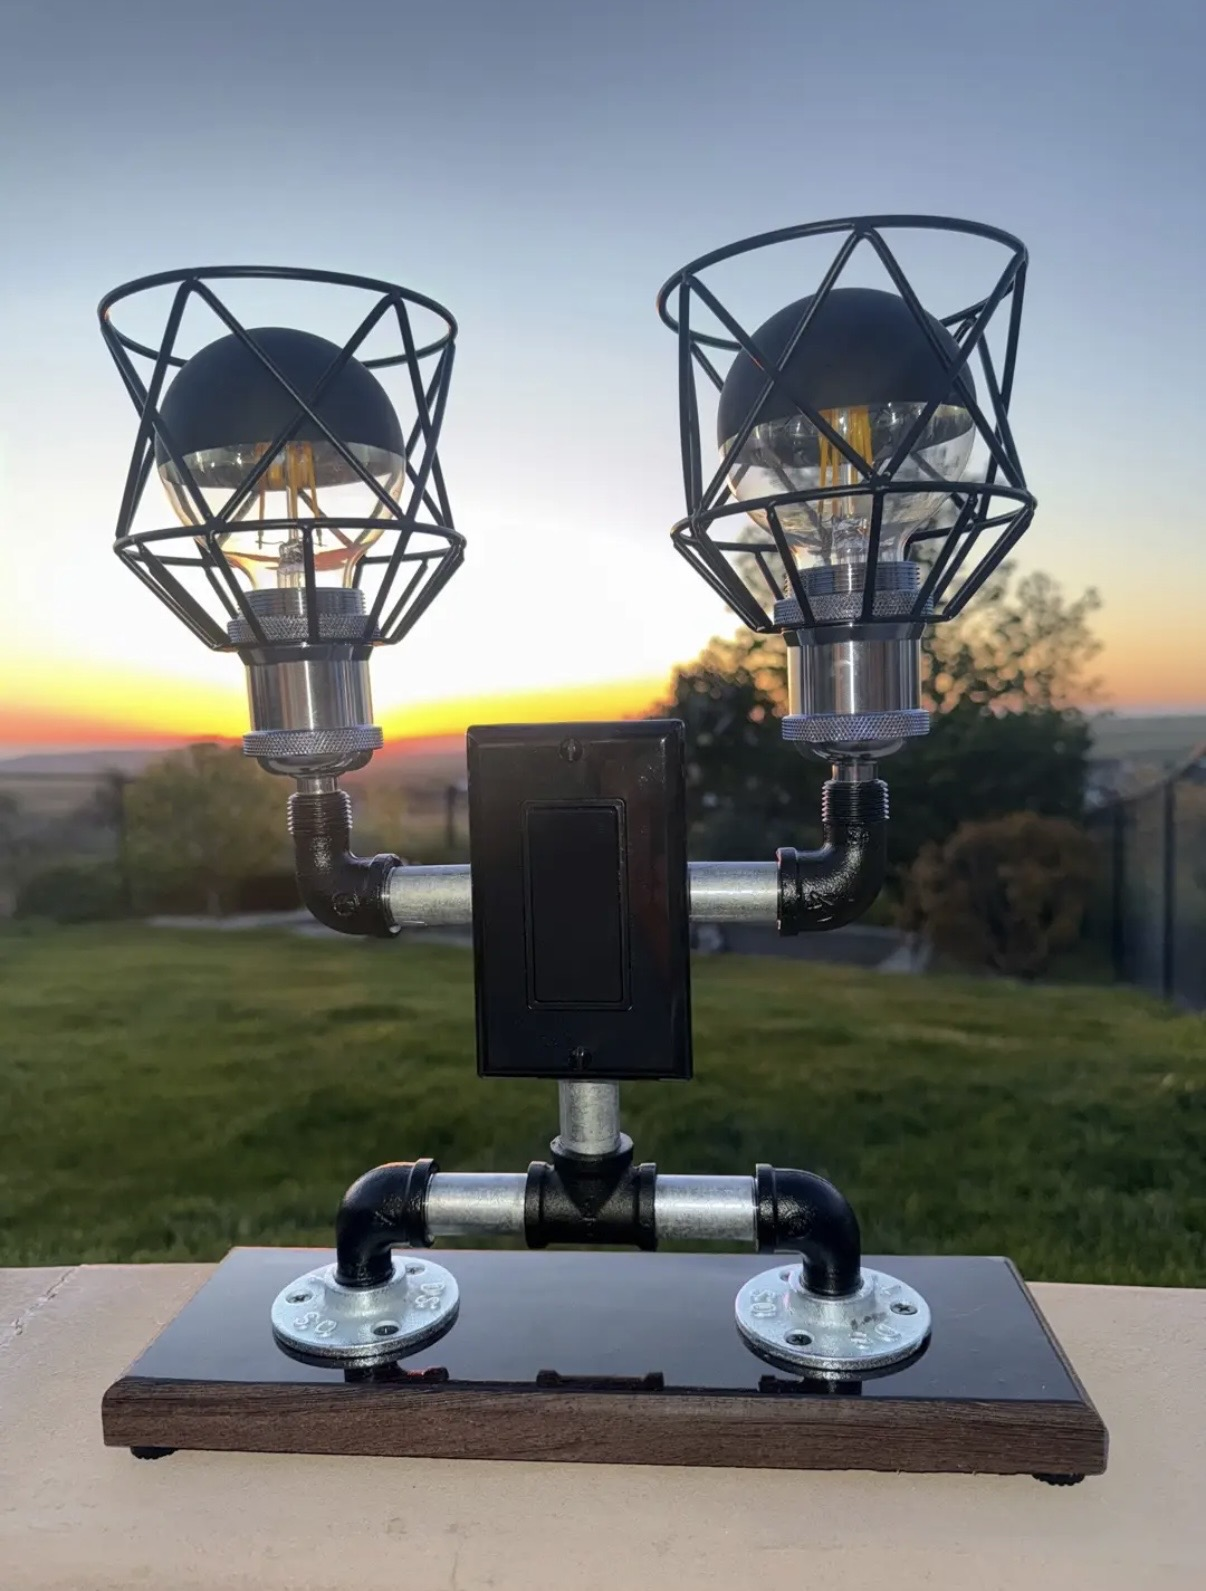
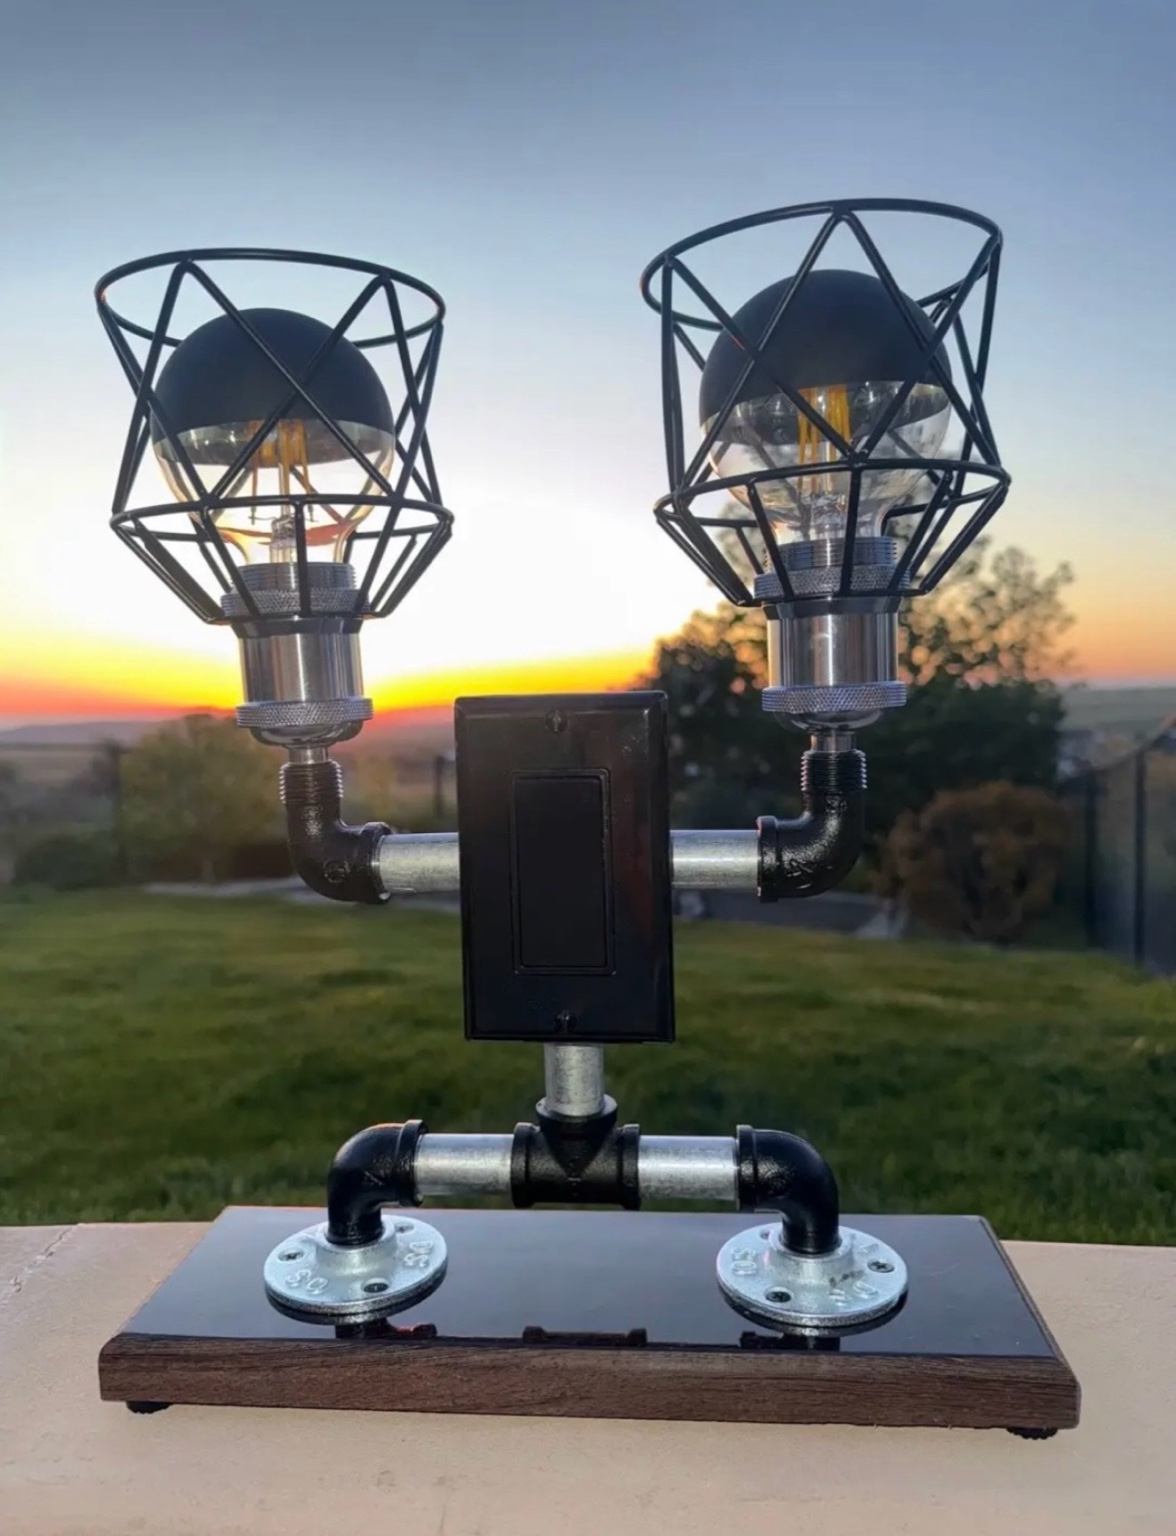
Add files via upload

diff --git a/index.html b/index.html
@@ -1,0 +1,204 @@
+<!-- baylors.html -->
+<!DOCTYPE html>
+
+<html lang="en">
+<head>
+<meta content="MQBYhmDHbTiFxvqggYpIqmD1kKzhtsRpkjdSBH1J-sA" name="google-site-verification"/>
+<meta charset="utf-8"/>
+<meta content="width=device-width, initial-scale=1.0" name="viewport"/>
+<title>Baylors Custom Creations — Division of B4 Lighting LLC</title>
+<style>
+  * { margin: 0; padding: 0; box-sizing: border-box; }
+  html { scroll-behavior: smooth; }
+  body { background: #0d0a07; color: #dccb98; padding: 0; }
+
+  .card-wrapper { width: 100%; max-width: 600px; margin: 0 auto; position: relative; }
+  .card-image { width: 100%; display: block; }
+  .hotspots { position: absolute; inset: 0; }
+  a.hotspot { position: absolute; display: block; border-radius: 6px; cursor: pointer; transition: background 0.2s; }
+  a.hotspot:hover { background: rgba(184,134,11,0.12); outline: 1px solid rgba(184,134,11,0.3); }
+  .hs-phone { top: 54%; left: 14%; width: 30%; height: 8%; }
+  .hs-email { top: 63%; left: 14%; width: 32%; height: 8%; }
+  .hs-address { top: 72%; left: 14%; width: 32%; height: 11%; }
+  .hs-website { top: 84%; left: 14%; width: 28%; height: 8%; }
+  .hs-facebook { top: 83%; left: 65%; width: 12%; height: 12%; }
+  .hs-tiktok { top: 83%; left: 80%; width: 12%; height: 12%; }
+
+  .tiktok-section { padding: 28px 16px; text-align: center; }
+  .tiktok-link { display: inline-flex; align-items: center; gap: 10px; font-family: Georgia, serif; font-size: 1.1rem; color: #c9a227; text-decoration: none; border: 1px solid #6b4f1a; border-radius: 8px; padding: 14px 24px; background: rgba(184,134,11,0.07); transition: background 0.2s, border-color 0.2s; }
+  .tiktok-link:hover { background: rgba(184,134,11,0.15); border-color: #c9a227; }
+
+  .bio-section { padding: 28px 24px 24px; max-width: 600px; margin: 0 auto; }
+  .bio-section p { font-family: Georgia, serif; font-size: 1rem; line-height: 1.75; color: #c9a227; text-align: center; }
+
+  .photo-stack { display: flex; flex-direction: column; max-width: 600px; margin: 0 auto; gap: 34px; padding: 22px 14px 42px; }
+  .photo-item { position: relative; display: flex; flex-direction: column; background: linear-gradient(180deg, rgba(40,30,15,0.94), rgba(13,10,7,0.96)); border: 1px solid rgba(201,162,39,0.35); border-radius: 14px; overflow: hidden; box-shadow: 0 14px 34px rgba(0,0,0,0.38); }
+  .photo-label { font-family: Georgia, serif; font-size: 1.35rem; color: #f0cf63; text-align: center; padding: 20px 18px 10px; font-weight: bold; }
+  .price { align-self: center; margin: 0 auto 16px; padding: 7px 16px; border: 1px solid rgba(201,162,39,0.45); border-radius: 999px; color: #f0cf63; font-family: Georgia, serif; font-weight: bold; background: rgba(184,134,11,0.08); }
+  .photo-stack img { width: 100%; display: block; }
+  .description { font-family: Georgia, serif; color: #dccb98; line-height: 1.65; padding: 18px 20px 12px; text-align: center; font-size: 1rem; }
+  .paypal-wrap { text-align: center; padding: 12px 16px 26px; min-height: 72px; }
+  .sold-badge { position: absolute; top: 18px; right: -42px; transform: rotate(35deg); background: #c9a227; color: #0d0a07; font-family: Georgia, serif; font-weight: bold; letter-spacing: 1px; padding: 8px 48px; box-shadow: 0 6px 14px rgba(0,0,0,0.35); z-index: 2; }
+
+  .contact-section { max-width: 600px; margin: 0 auto; padding: 34px 20px 44px; text-align: center; border-top: 1px solid #2a1f0e; }
+  .contact-section h2 { color: #f0cf63; font-family: Georgia, serif; margin-bottom: 14px; }
+  .contact-section p, .contact-section a { color: #c9a227; font-family: Georgia, serif; line-height: 1.8; }
+  .contact-section a { text-decoration: none; }
+
+  .back-top { position: fixed; right: 18px; bottom: 18px; width: 44px; height: 44px; border-radius: 50%; display: grid; place-items: center; background: rgba(201,162,39,0.95); color: #0d0a07; text-decoration: none; font-weight: bold; box-shadow: 0 8px 22px rgba(0,0,0,0.35); z-index: 5; }
+
+  @media (max-width: 520px) {
+    .photo-stack { padding-left: 10px; padding-right: 10px; }
+    .photo-label { font-size: 1.15rem; }
+    .description { font-size: 0.96rem; }
+  }
+
+  .paypal-button { display: inline-block; font-family: Georgia, serif; font-weight: bold; font-size: 1rem; color: #0d0a07; text-decoration: none; background: #f0cf63; border: 1px solid #c9a227; border-radius: 999px; padding: 12px 28px; box-shadow: 0 6px 16px rgba(0,0,0,0.28); transition: transform 0.15s ease, background 0.15s ease; }
+  .paypal-button:hover { background: #ffd86b; transform: translateY(-1px); }
+</style>
+</head>
+<body id="top">
+<div class="card-wrapper">
+<img alt="Baylors Custom Creations — Division of B4 Lighting LLC" class="card-image" src="FullSizeRender.jpeg"/>
+<div class="hotspots">
+<a class="hotspot hs-phone" href="tel:+15092052006" title="Call (509) 205-2006"></a>
+<a class="hotspot hs-email" href="mailto:b4lighting@outlook.com" title="Email b4lighting@outlook.com"></a>
+<a class="hotspot hs-address" href="https://maps.google.com/?q=34013+S+Cantera+St,+Kennewick,+WA+99338" rel="noopener" target="_blank" title="Get directions"></a>
+<a class="hotspot hs-website" href="https://B4Lighting.com" rel="noopener" target="_blank" title="Visit B4Lighting.com"></a>
+<a class="hotspot hs-facebook" href="https://www.facebook.com/profile.php?id=61586170517033" rel="noopener" target="_blank" title="Facebook"></a>
+<a class="hotspot hs-tiktok" href="https://www.tiktok.com/@johnbaylor953" rel="noopener" target="_blank" title="TikTok"></a>
+</div>
+</div>
+<div class="tiktok-section">
+<a class="tiktok-link" href="https://www.tiktok.com/@johnbaylor953" rel="noopener" target="_blank">
+<svg fill="#c9a227" height="24" viewbox="0 0 24 24" width="24" xmlns="http://www.w3.org/2000/svg"><path d="M19.59 6.69a4.83 4.83 0 0 1-3.77-4.25V2h-3.45v13.67a2.89 2.89 0 0 1-2.88 2.5 2.89 2.89 0 0 1-2.89-2.89 2.89 2.89 0 0 1 2.89-2.89c.28 0 .54.04.79.1V9.01a6.31 6.31 0 0 0-.79-.05 6.34 6.34 0 0 0-6.34 6.34 6.34 6.34 0 0 0 6.34 6.34 6.34 6.34 0 0 0 6.33-6.34V8.69a8.16 8.16 0 0 0 4.77 1.52V6.75a4.85 4.85 0 0 1-1-.06z"></path></svg>
+
+    Follow us on TikTok to see our lights!
+
+  </a>
+</div>
+<div class="bio-section">
+<p>For many years, I worked in the automotive industry, developing hands-on skills in repair, fabrication, and creative problem-solving. In 2025, I decided to turn my passion for building into something more personal by starting B4 Lighting. Today, I create one-of-a-kind custom lamps using a combination of vintage, reclaimed, and modern parts, giving each piece its own unique character and style. When I'm not in the workshop, I enjoy spending time with my wife, our dog Buddy—who's usually right by my side while I work—our kids Molly and Justin, and our newest addition to the family, our grandbaby Autumn.</p>
+</div>
+<div class="photo-stack">
+<div class="photo-item">
+<div class="photo-label">Around the World</div>
+<div class="price">$60</div>
+<img alt="Around the World" src="IMG_9386.jpeg"/>
+<p class="description">Around the World is handcrafted from a repurposed candle holder found at a second-hand store, giving the piece its globe-inspired character and vintage charm. It sits on a pine wood slab base with epoxy resin applied to the top, adding depth and protection while highlighting the natural wood grain. The lamp uses an E26 socket with a warm LED Edison bulb and a brown fabric cord with a black inline on/off switch. Every B4 Lighting lamp is individually handcrafted, making each one a unique piece of functional art.</p>
+<div class="paypal-wrap"><a class="paypal-button" href="https://www.paypal.com/ncp/payment/58Q8CQGUFL8DN" rel="noopener" target="_blank">Buy Now with PayPal</a></div>
+</div>
+<div class="photo-item">
+<div class="photo-label">Midnight Sentinels</div>
+<div class="price">$150</div>
+<img alt="Midnight Sentinels" src="IMG_9387.jpeg"/>
+<p class="description">Midnight Sentinels is a matching pair of handcrafted lamps made from 1/2” industrial pipe and fittings. Each lamp uses an E26 socket with a black-tipped 5000K bulb, creating a bold, modern glow against the dark industrial design. The arms move to create a unique look, allowing the pair to be posed and displayed in different ways. Each lamp includes a standard on/off paddle rocker switch with a matching cover plate. The bases are pine with black-tinted epoxy applied over the top, and small rubber feet are installed on the bottom to protect furniture and keep each piece stable. Every B4 Lighting lamp is individually handcrafted, making each one a unique piece of functional art.</p>
+<div class="paypal-wrap"><a class="paypal-button" href="https://www.paypal.com/ncp/payment/NS78LD383TABN" rel="noopener" target="_blank">Buy Now with PayPal</a></div>
+</div>
+<div class="photo-item">
+<div class="photo-label">Cherry Ember</div>
+<div class="price">$150</div>
+<img alt="Cherry Ember" src="IMG_9388.jpeg"/>
+<p class="description">Cherry Ember is a handcrafted pair of lamps made using 1/2” black painted industrial pipe with dark chrome E26 hanging sockets and warm white 2200K LED bulbs. The twisted black fabric cords hang naturally from the pipe design, giving each lamp a clean industrial look with a warm, inviting glow. The pair sits on pine wood bases finished with cherry-tinted epoxy applied to the top, creating a rich contrast between the wood, pipe, and cord. Rubber feet on the bottom help protect furniture and keep the lamps stable. Every B4 Lighting lamp is individually handcrafted, making each one a unique piece of functional art.</p>
+<div class="paypal-wrap"><a class="paypal-button" href="https://www.paypal.com/ncp/payment/8B727TWM37CCU" rel="noopener" target="_blank">Buy Now with PayPal</a></div>
+</div>
+<div class="photo-item">
+<div class="photo-label">The Lineman</div>
+<div class="price">$200</div>
+<img alt="The Lineman" src="IMG_9389.jpeg"/>
+<p class="description">The Lineman is handcrafted by incorporating a vintage copper isolator with 1/2” industrial pipe, creating a piece that pays tribute to old electrical utility hardware and industrial craftsmanship. It uses a standard E26 socket with a 7 watt 2700K soft white gold-dipped bulb, surrounded by a glass bowl for a warm, finished look. The base is oak with epoxy applied to the top, highlighting the natural wood grain while protecting the surface. A traditional dual 3-prong black outlet with a matching matte finish cover adds everyday function to the piece. The back of the outlet box features a rotating knob to turn the light on and off. It is finished with a black grounded 3-prong cord and rubber feet on the bottom. Every B4 Lighting lamp is individually handcrafted, making each one a unique piece of functional art.</p>
+<div class="paypal-wrap"><a class="paypal-button" href="https://www.paypal.com/ncp/payment/7N36L8C6R3GAQ" rel="noopener" target="_blank">Buy Now with PayPal</a></div>
+</div>
+<div class="photo-item">
+<div class="photo-label">The Hanger</div>
+<div class="price">$95</div>
+<img alt="The Hanger" src="IMG_9390.jpeg"/>
+<p class="description">The Hanger is handcrafted using 1/2” black painted industrial pipe and fittings, creating a clean, minimalist design with a suspended hanging socket. It features a black E26 socket paired with a warm white 2700K smoky round Edison-style LED bulb for a soft, inviting glow. The twisted black fabric cord hangs naturally from the top of the frame, giving the lamp its distinctive appearance. The base is made from solid oak with stain applied to enhance the natural grain. A black inline on/off switch and black fabric cord complete the design, while rubber feet on the bottom help protect furniture and keep the lamp stable. Every B4 Lighting lamp is individually handcrafted, making each one a unique piece of functional art.</p>
+<div class="paypal-wrap"><a class="paypal-button" href="https://www.paypal.com/ncp/payment/E3F32RWLUJ4Q8" rel="noopener" target="_blank">Buy Now with PayPal</a></div>
+</div>
+<div class="photo-item">
+<div class="photo-label">The Lockout</div>
+<div class="price">$140</div>
+<img alt="The Lockout" src="IMG_9391.jpeg"/>
+<p class="description">The Lockout is built around a repurposed front 4x4 hub from a Ford one-ton truck, giving the lamp a strong automotive identity and a mechanical centerpiece that can rotate when spun. The lamp is mounted on a repurposed floor lamp base and uses a 7 watt warm LED bulb for a soft glow. A white cord with an inline rocker switch keeps the design simple and functional. The bottom is finished with one piece of felt to help protect surfaces. Every B4 Lighting lamp is individually handcrafted, making each one a unique piece of functional art.</p>
+<div class="paypal-wrap"><a class="paypal-button" href="https://www.paypal.com/ncp/payment/G5YXBN7WNK3ZA" rel="noopener" target="_blank">Buy Now with PayPal</a></div>
+</div>
+<div class="photo-item">
+<div class="photo-label">The Caretaker</div>
+<div class="price">$175</div>
+<img alt="The Caretaker" src="IMG_9392.jpeg"/>
+<p class="description">The Caretaker is handcrafted from 1/2” industrial pipe finished in a durable silver coating, giving it a clean industrial appearance. Its adjustable pipe arms can be repositioned to create different poses, making each display uniquely its own. A white rocker switch and grounded 3-prong outlet with a matching faceplate form the centerpiece of the design, blending everyday function with artistic creativity. Topping the lamp is a clear glass globe that surrounds a warm amber 2200K LED bulb, producing a soft, inviting glow. The lamp is mounted on a stained solid pine base that highlights the natural wood grain while providing a warm contrast to the industrial metalwork. A black grounded 3-prong power cord, rubber feet for furniture protection, and quality craftsmanship complete the piece. Every B4 Lighting lamp is individually handcrafted, making each one a one-of-a-kind piece of functional art.</p>
+<div class="paypal-wrap"><a class="paypal-button" href="https://www.paypal.com/ncp/payment/UG3T98TAMJKZG" rel="noopener" target="_blank">Buy Now with PayPal</a></div>
+</div>
+<div class="photo-item">
+<div class="photo-label">Twin Beacons</div>
+<div class="price">$150</div>
+<img alt="Twin Beacons" src="IMG_9393.jpeg"/>
+<p class="description">Twin Beacons is handcrafted from 1/2” black painted industrial pipe and fittings, creating a clean industrial design with two matching lights. Each lamp is mounted on a wood base with a routed edge, adding a finished handcrafted detail to the design. The pair is built with warm Edison-style lighting and simple industrial hardware, giving the lamps a balanced mix of rustic wood and painted metal. Rubber feet on the bottom help protect furniture and keep each lamp stable. Every B4 Lighting lamp is individually handcrafted, making each one a unique piece of functional art.</p>
+<div class="paypal-wrap"><a class="paypal-button" href="https://www.paypal.com/ncp/payment/DAGHEU69SE284" rel="noopener" target="_blank">Buy Now with PayPal</a></div>
+</div>
+<div class="photo-item">
+<div class="sold-badge">SOLD</div>
+<div class="photo-label">The Dairyman</div>
+<div class="price">SOLD</div>
+<img alt="The Dairyman" src="IMG_9394.jpeg"/>
+<p class="description">The Dairyman is a sold one-of-a-kind lamp made using an old vintage milk jug as the shade. It was built with an E12 socket, hammered dark gray painted 1/2” pipe, and a warm 2700K LED bulb. The lamp included rubber feet on the bottom and a black cord with an inline rocker switch. Its rustic farm-inspired character made it a memorable piece in the B4 Lighting collection. Every B4 Lighting lamp is individually handcrafted, making each one a unique piece of functional art.</p>
+</div>
+<div class="photo-item">
+<div class="photo-label">The Ember Cage</div>
+<div class="price">$75</div>
+<img alt="The Ember Cage" src="IMG_9397.jpeg"/>
+<p class="description">The Ember Cage began as a second-hand decorative light that originally used a battery-operated fairy light bulb. It was converted to an E12 socket and fitted with a 3 watt 2200K antique-style round LED bulb, creating a warm ember-like glow inside the cage. The cage was repainted black from its original gold finish, giving it a stronger industrial look. The base is pine that has been torch-burned and finished with epoxy applied over the top. A black cord with an inline rocker switch and rubber feet on the bottom complete the piece. Every B4 Lighting lamp is individually handcrafted, making each one a unique piece of functional art.</p>
+<div class="paypal-wrap"><a class="paypal-button" href="https://www.paypal.com/ncp/payment/3HLV32EATRH3G" rel="noopener" target="_blank">Buy Now with PayPal</a></div>
+</div>
+<div class="photo-item">
+<div class="photo-label">The Hive</div>
+<div class="price">$85</div>
+<img alt="The Hive" src="IMG_9398.jpeg"/>
+<p class="description">The Hive is handcrafted with a pine wood base that has been torch-burned and finished with epoxy for a warm rustic surface. The lamp uses painted silver 1/2” pipe and an old honey jar as the shade, giving the piece its distinctive character and name. It is fitted with an E12 socket and a 4 watt 2200K LED Edison bulb, producing a soft amber glow through the glass. Every B4 Lighting lamp is individually handcrafted, making each one a unique piece of functional art.</p>
+<div class="paypal-wrap"><a class="paypal-button" href="https://www.paypal.com/ncp/payment/JSNQ2XXU3BADN" rel="noopener" target="_blank">Buy Now with PayPal</a></div>
+</div>
+<div class="photo-item">
+<div class="photo-label">The Foundry</div>
+<div class="price">$250</div>
+<img alt="The Foundry" src="IMG_9399.jpeg"/>
+<p class="description">The Foundry is a handcrafted statement piece built on a wenge hardwood base that has been epoxied and then routered to leave a clean bare-wood and epoxy look. Victorian-style corner feet give the base a finished, elevated appearance. The lamp includes a gray dual 3-prong outlet that also houses a 30 watt, 3-port USB charger, adding everyday function to the artistic design. A rocker switch sits on top of the outlet box. The 1/2” pipework is a combination of black painted and natural pewter-toned pipe, creating an industrial contrast against the rich wood base. The shade has a black exterior with a white interior and is paired with an amber round 4 watt 2200K Edison-style bulb. A black grounded 3-prong cord completes the piece. Every B4 Lighting lamp is individually handcrafted, making each one a unique piece of functional art.</p>
+<div class="paypal-wrap"><a class="paypal-button" href="https://www.paypal.com/ncp/payment/35SB2VRTJ9LS6" rel="noopener" target="_blank">Buy Now with PayPal</a></div>
+</div>
+<div class="photo-item">
+<div class="photo-label">Twin Forge</div>
+<div class="price">$225</div>
+<img alt="Twin Forge" src="IMG_9401.jpeg"/>
+<p class="description">Twin Forge is built on the same style of handcrafted base as The Foundry, giving it a strong industrial foundation and a polished wood-and-epoxy look. This version uses rubber feet on the bottom for stability and surface protection. The lamp features mixed galvanized and black 1/2” pipe, chrome E26 sockets, and wire-design shades. The black twisted fabric cord pairs with a black paddle switch and matching gloss cover. Two 7 watt black-tipped 3000K LED bulbs provide a warm, modern glow. Every B4 Lighting lamp is individually handcrafted, making each one a unique piece of functional art.</p>
+<div class="paypal-wrap"><a class="paypal-button" href="https://www.paypal.com/ncp/payment/P9E3Q6C3MCYTW" rel="noopener" target="_blank">Buy Now with PayPal</a></div>
+</div>
+<div class="photo-item">
+<div class="sold-badge">SOLD</div>
+<div class="photo-label">Triple Helix</div>
+<div class="price">SOLD</div>
+<img alt="Triple Helix" src="IMG_9402.jpeg"/>
+<p class="description">Triple Helix is a sold handcrafted lamp built with three E26 sockets and a sculptural pipe design. It used two 6 watt and one 4.5 watt 2700K Edison tube-style bulbs for a warm layered glow. The base was epoxied and then routered for a finished edge, and Victorian-style feet added a classic detail to the industrial design. It was finished with black painted 1/2” pipe, a black cord, and an inline dimmer switch. Every B4 Lighting lamp is individually handcrafted, making each one a unique piece of functional art.</p>
+</div>
+<div class="photo-item">
+<div class="photo-label">Workshop</div>
+<img alt="Workshop" src="IMG_9403.jpeg"/>
+<p class="description">A look inside the B4 Lighting workbench, where ideas, reclaimed materials, pipe fittings, wood bases, and one-of-a-kind lamp builds come together. This workspace represents the hands-on process behind each finished piece, from layout and fitting to wiring, epoxy work, routing, and final assembly.</p>
+</div>
+<div class="photo-item">
+<div class="photo-label">B4 Lighting Showcase</div>
+<img alt="B4 Lighting Showcase" src="IMG_9400.jpeg"/>
+<p class="description">A final gallery view of several B4 Lighting lamps photographed together during sunrise. This showcase image captures the warmth, industrial character, and handcrafted style that tie the collection together.</p>
+</div>
+</div>
+<section class="contact-section">
+<h2>Contact B4 Lighting</h2>
+<p>
+    Have a question about a lamp or custom piece?<br/>
+<a href="tel:+15092052006">(509) 205-2006</a><br/>
+<a href="mailto:b4lighting@outlook.com">b4lighting@outlook.com</a><br/>
+<a href="https://B4Lighting.com" rel="noopener" target="_blank">B4Lighting.com</a>
+</p>
+</section>
+<a aria-label="Back to top" class="back-top" href="#top">↑</a>
+</body>
+</html>
